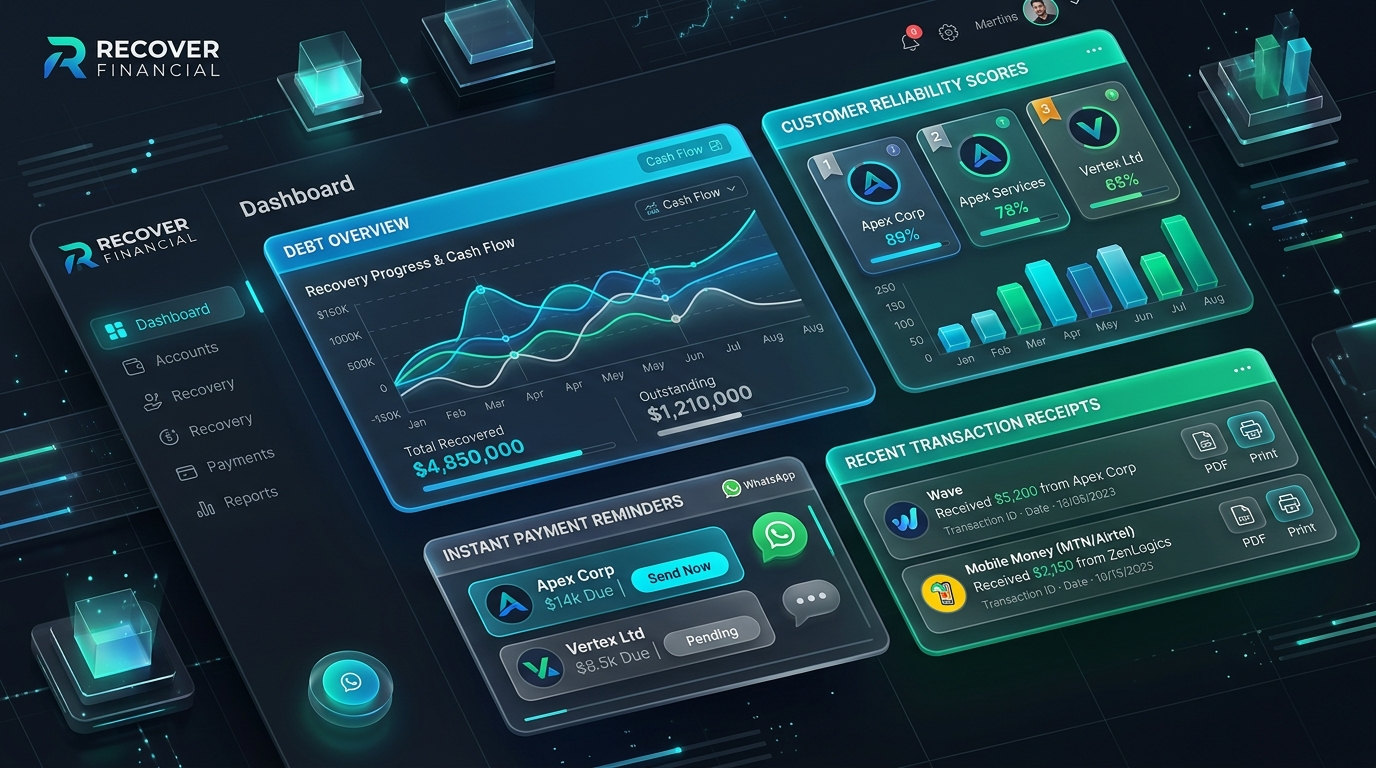
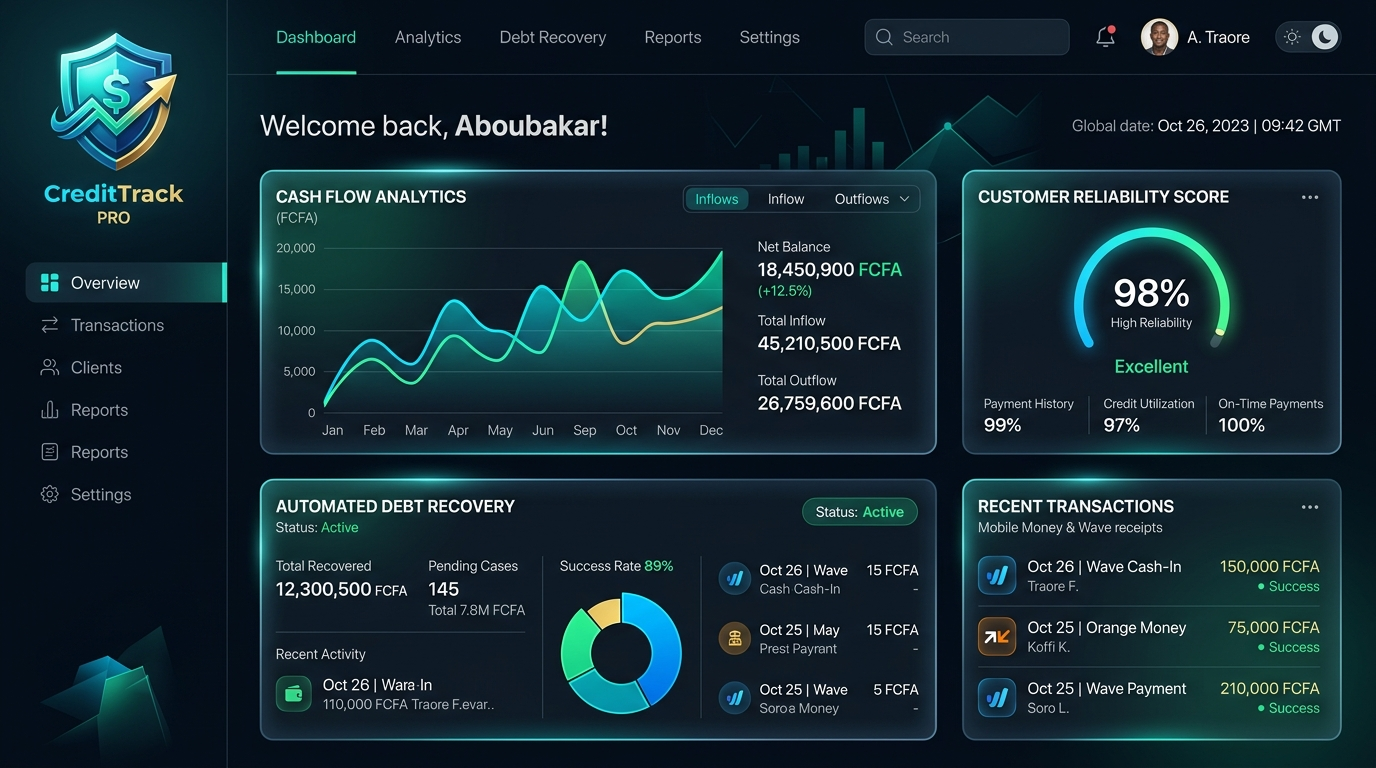
fix(landing): remove simulator section and integrate official CreditTrack PRO branded 3D hero image

diff --git a/index.html b/index.html
@@ -485,9 +485,9 @@
       </div>
       <nav class="lp-nav-links">
         <a href="#demo-live" class="lp-nav-a" data-i18n="lpNavDemo">Aperçu en Direct</a>
-        <a href="#simulator" class="lp-nav-a" data-i18n="lpNavSim">Simulateur WhatsApp</a>
-        <a href="#comparison" class="lp-nav-a" data-i18n="lpNavComp">Pourquoi nous ?</a>
         <a href="#features" class="lp-nav-a" data-i18n="lpNavFeatures">Fonctionnalités</a>
+        <a href="#comparison" class="lp-nav-a" data-i18n="lpNavComp">Pourquoi nous ?</a>
+        <a href="#pricing" class="lp-nav-a">Tarifs</a>
         
         <!-- Quick Lang Switcher -->
         <div class="lp-lang-pill">
@@ -528,9 +528,9 @@
             <i data-lucide="user-plus" style="width:18px;height:18px;"></i>
             <span data-i18n="lpHeroCta1">Créer un Compte Commerçant</span>
           </button>
-          <a href="#simulator" class="lp-btn-secondary-glass" style="display:flex;align-items:center;gap:8px;">
-            <i data-lucide="message-square" style="width:18px;height:18px;"></i>
-            <span data-i18n="lpHeroCta2">Simulateur WhatsApp</span>
+          <a href="#demo-live" class="lp-btn-secondary-glass" style="display:flex;align-items:center;gap:8px;" onclick="switchHeroView('3d')">
+            <i data-lucide="sparkles" style="width:18px;height:18px;"></i>
+            <span>Aperçu du Dashboard 3D</span>
           </a>
         </div>
 
@@ -716,62 +716,6 @@
         <div class="lp-stat-item">
           <div class="stat-big">15+</div>
           <div class="stat-label">Pays et devises couverts</div>
-        </div>
-      </div>
-    </section>
-
-    <!-- ── SIMULATEUR WHATSAPP ── -->
-    <section class="lp-simulator-section" id="simulator">
-      <div class="lp-sim-inner">
-        <div class="lp-sim-left">
-          <div class="lp-sim-badge">MODULE DE RAPPEL CLIENT</div>
-          <h2 class="lp-sim-title">Aperçu d'un message de rappel transmis au client</h2>
-          <p class="lp-sim-desc">
-            Saisissez un nom et un montant : le modèle de message professionnel s'ajuste instantanément.
-          </p>
-
-          <div class="lp-sim-inputs">
-            <div class="form-group">
-              <label class="form-label" style="color:rgba(255,255,255,0.85);">Nom du Client :</label>
-              <input type="text" id="sim-client-name" class="form-control lp-dark-input" value="Koffi Jean" oninput="updateLandingSimPreview()">
-            </div>
-            <div class="form-group">
-              <label class="form-label" style="color:rgba(255,255,255,0.85);">Montant dû (FCFA) :</label>
-              <input type="number" id="sim-client-amount" class="form-control lp-dark-input" value="75000" oninput="updateLandingSimPreview()">
-            </div>
-            <button class="btn btn-primary" style="background:#2563EB;border:none;padding:12px 20px;font-weight:700;width:100%;" onclick="testSimWhatsAppSend()">
-              <i data-lucide="send" style="width:16px;height:16px;"></i> Tester l'envoi WhatsApp
-            </button>
-          </div>
-        </div>
-
-        <div class="lp-sim-right">
-          <!-- Smartphone Mockup -->
-          <div class="lp-phone-frame">
-            <div class="phone-top-notch"></div>
-            <div class="phone-wa-header">
-              <div style="display:flex;align-items:center;gap:8px;">
-                <div class="wa-header-avatar">KJ</div>
-                <div>
-                  <div class="wa-header-name" id="sim-preview-header-name">Koffi Jean</div>
-                  <div class="wa-header-sub">En ligne</div>
-                </div>
-              </div>
-              <i data-lucide="phone" style="width:16px;height:16px;color:#fff;"></i>
-            </div>
-            
-            <div class="phone-wa-chat">
-              <div class="wa-chat-bubble">
-                <p id="sim-wa-text">
-                  Bonjour <strong>Koffi Jean</strong>, nous vous informons que votre solde de <strong>75 000 FCFA</strong> chez <strong>Établissements KOUASSI</strong> est arrivé à échéance.
-                </p>
-                <div class="wa-chat-link">
-                  Règlement par Wave, Mobile Money ou en magasin.
-                </div>
-                <div class="wa-chat-time">14:30 ✓✓</div>
-              </div>
-            </div>
-          </div>
         </div>
       </div>
     </section>
